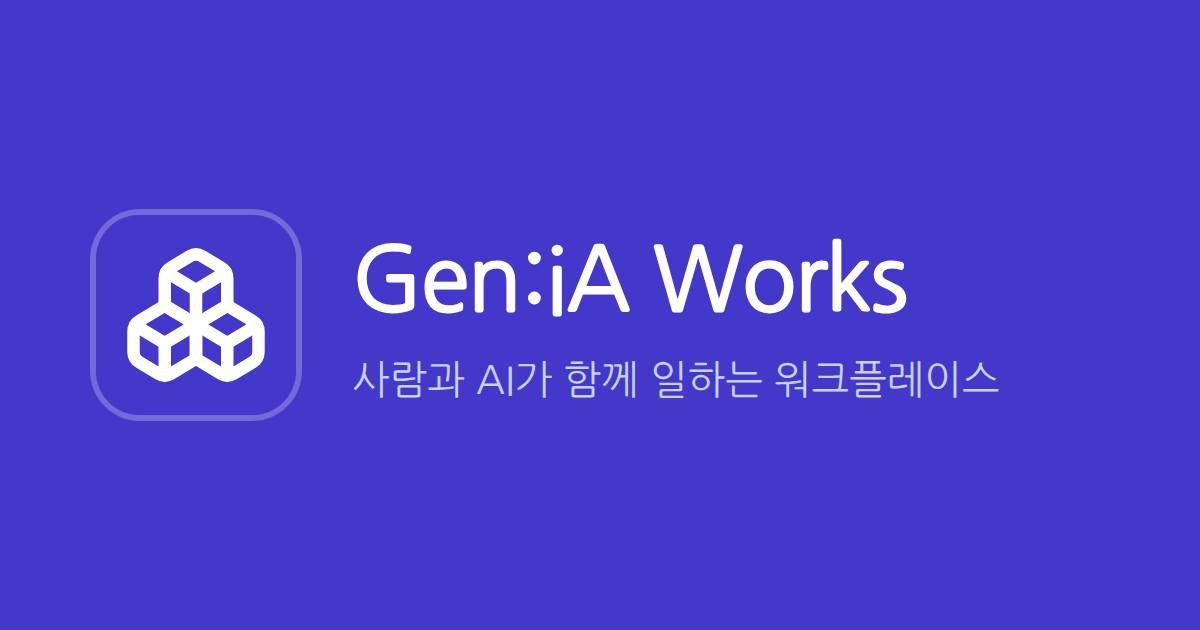
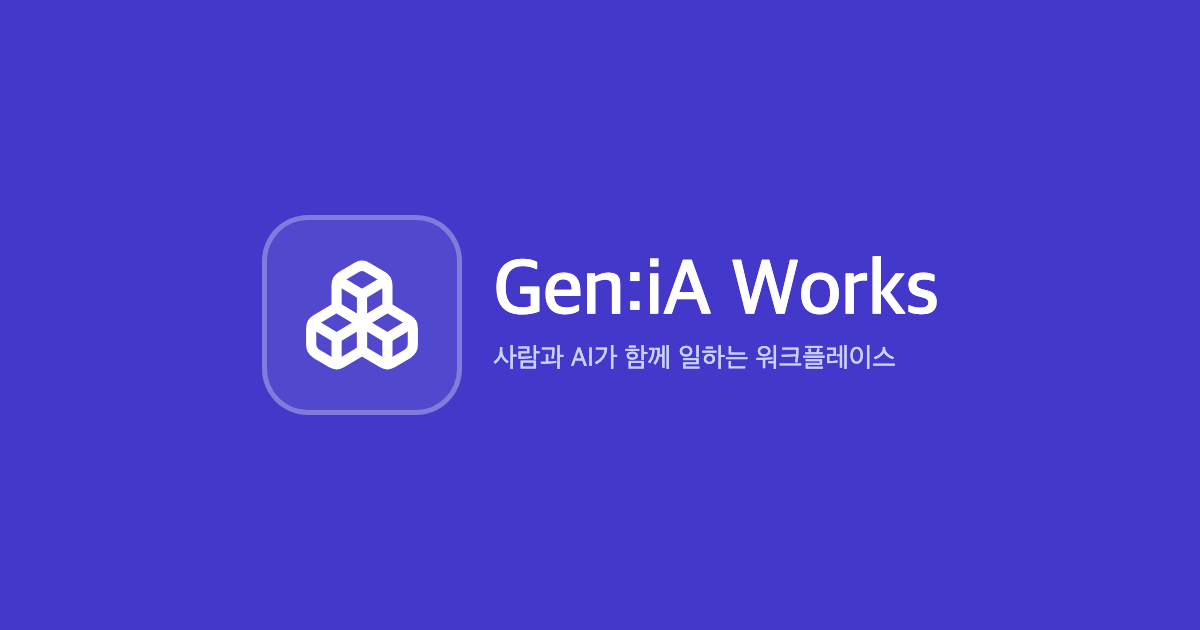
fix(web): 링크를 Teams 에 붙여도 미리보기 썸네일에서 로고가 잘리지 않게 공유 이미지를 가운데로 모은다 (WP-1224)
Teams 는 og:image(1200×630)를 썸네일 칸(약 1.26:1)에 가운데 기준으로 잘라 x 202~998 만 남겨, 왼쪽에 있던
로고가 반쯤 잘렸다. 확정 시안대로 가로 배치(로고 타일·이름·소개)를 유지한 채 전체를 가운데 x 262~939 로 모았다.
다시 만들 수 있게 원본(HTML)과 렌더 스크립트를 함께 두고, 잘리는 좌우에 배경만 있는지 vitest 로 지킨다.
파일 경로·크기·메타 태그는 그대로다.

Claude-Session: https://claude.ai/code/session_01GsqDqP9ZRrGbou8224gAwA

Changed region(s): [[0.0617, 0.3317, 0.8325, 0.6937]]

diff --git a/apps/workplace-web/scripts/og-image/og-image.html b/apps/workplace-web/scripts/og-image/og-image.html
@@ -1,0 +1,76 @@
+<!doctype html>
+<!--
+  링크 미리보기 공유 이미지(public/og-image.png) 원본 — render.mjs 가 1200×630 으로 찍어 PNG 를 만든다(WP-1224).
+  Teams 는 이미지를 썸네일 칸(약 1.26:1)에 가운데 기준으로 잘라 채워 가로 x 202~998 만 남긴다. 그래서 로고 타일·이름·소개를
+  가운데로 모아 x 약 265~935 안에 둔다(좌우 약 60px 여유). 카카오톡·Slack 은 전체를 보여 주므로 가로 배치를 그대로 쓴다.
+  글꼴은 렌더하는 컴퓨터의 시스템 글꼴(macOS 의 Apple SD Gothic Neo — 시안과 같다)이다 — 다시 찍을 때는 macOS 에서 찍는다.
+-->
+<html lang="ko">
+  <head>
+    <meta charset="utf-8" />
+    <style>
+      html,
+      body {
+        margin: 0;
+        width: 1200px;
+        height: 630px;
+      }
+      body {
+        /* 브랜드 primary — favicon.svg 와 같은 인디고 */
+        background: #4338ca;
+        display: flex;
+        align-items: center;
+        justify-content: center;
+        gap: 32px;
+        font-family: 'Apple SD Gothic Neo', 'Noto Sans KR', sans-serif;
+      }
+      /* 로고 타일 — 반투명 테두리·채움 안에 lucide Boxes(favicon.svg 와 같은 패스) */
+      .tile {
+        box-sizing: border-box;
+        width: 200px;
+        height: 200px;
+        border-radius: 46px;
+        border: 5px solid rgba(255, 255, 255, 0.28);
+        background: rgba(255, 255, 255, 0.08);
+        display: flex;
+        align-items: center;
+        justify-content: center;
+      }
+      .name {
+        color: #fff;
+        font-size: 78px;
+        font-weight: 600;
+        line-height: 1;
+        letter-spacing: -0.5px;
+      }
+      .tagline {
+        margin-top: 10px;
+        color: #c7d2fe;
+        font-size: 27px;
+        font-weight: 400;
+      }
+    </style>
+  </head>
+  <body>
+    <div class="tile">
+      <svg width="122" height="122" viewBox="0 0 24 24" fill="none" stroke="#fff" stroke-width="2" stroke-linecap="round" stroke-linejoin="round">
+        <path d="M2.97 12.92A2 2 0 0 0 2 14.63v3.24a2 2 0 0 0 .97 1.71l3 1.8a2 2 0 0 0 2.06 0L12 19v-5.5l-5-3-4.03 2.42Z" />
+        <path d="m7 16.5-4.74-2.85" />
+        <path d="m7 16.5 5-3" />
+        <path d="M7 16.5v5.17" />
+        <path d="M12 13.5V19l3.97 2.38a2 2 0 0 0 2.06 0l3-1.8a2 2 0 0 0 .97-1.71v-3.24a2 2 0 0 0-.97-1.71L17 10.5l-5 3Z" />
+        <path d="m17 16.5-5-3" />
+        <path d="m17 16.5 4.74-2.85" />
+        <path d="M17 16.5v5.17" />
+        <path d="M7.97 4.42A2 2 0 0 0 7 6.13v4.37l5 3 5-3V6.13a2 2 0 0 0-.97-1.71l-3-1.8a2 2 0 0 0-2.06 0l-3 1.8Z" />
+        <path d="M12 8 7.26 5.15" />
+        <path d="m12 8 4.74-2.85" />
+        <path d="M12 13.5V8" />
+      </svg>
+    </div>
+    <div>
+      <div class="name">Gen:iA Works</div>
+      <div class="tagline">사람과 AI가 함께 일하는 워크플레이스</div>
+    </div>
+  </body>
+</html>
